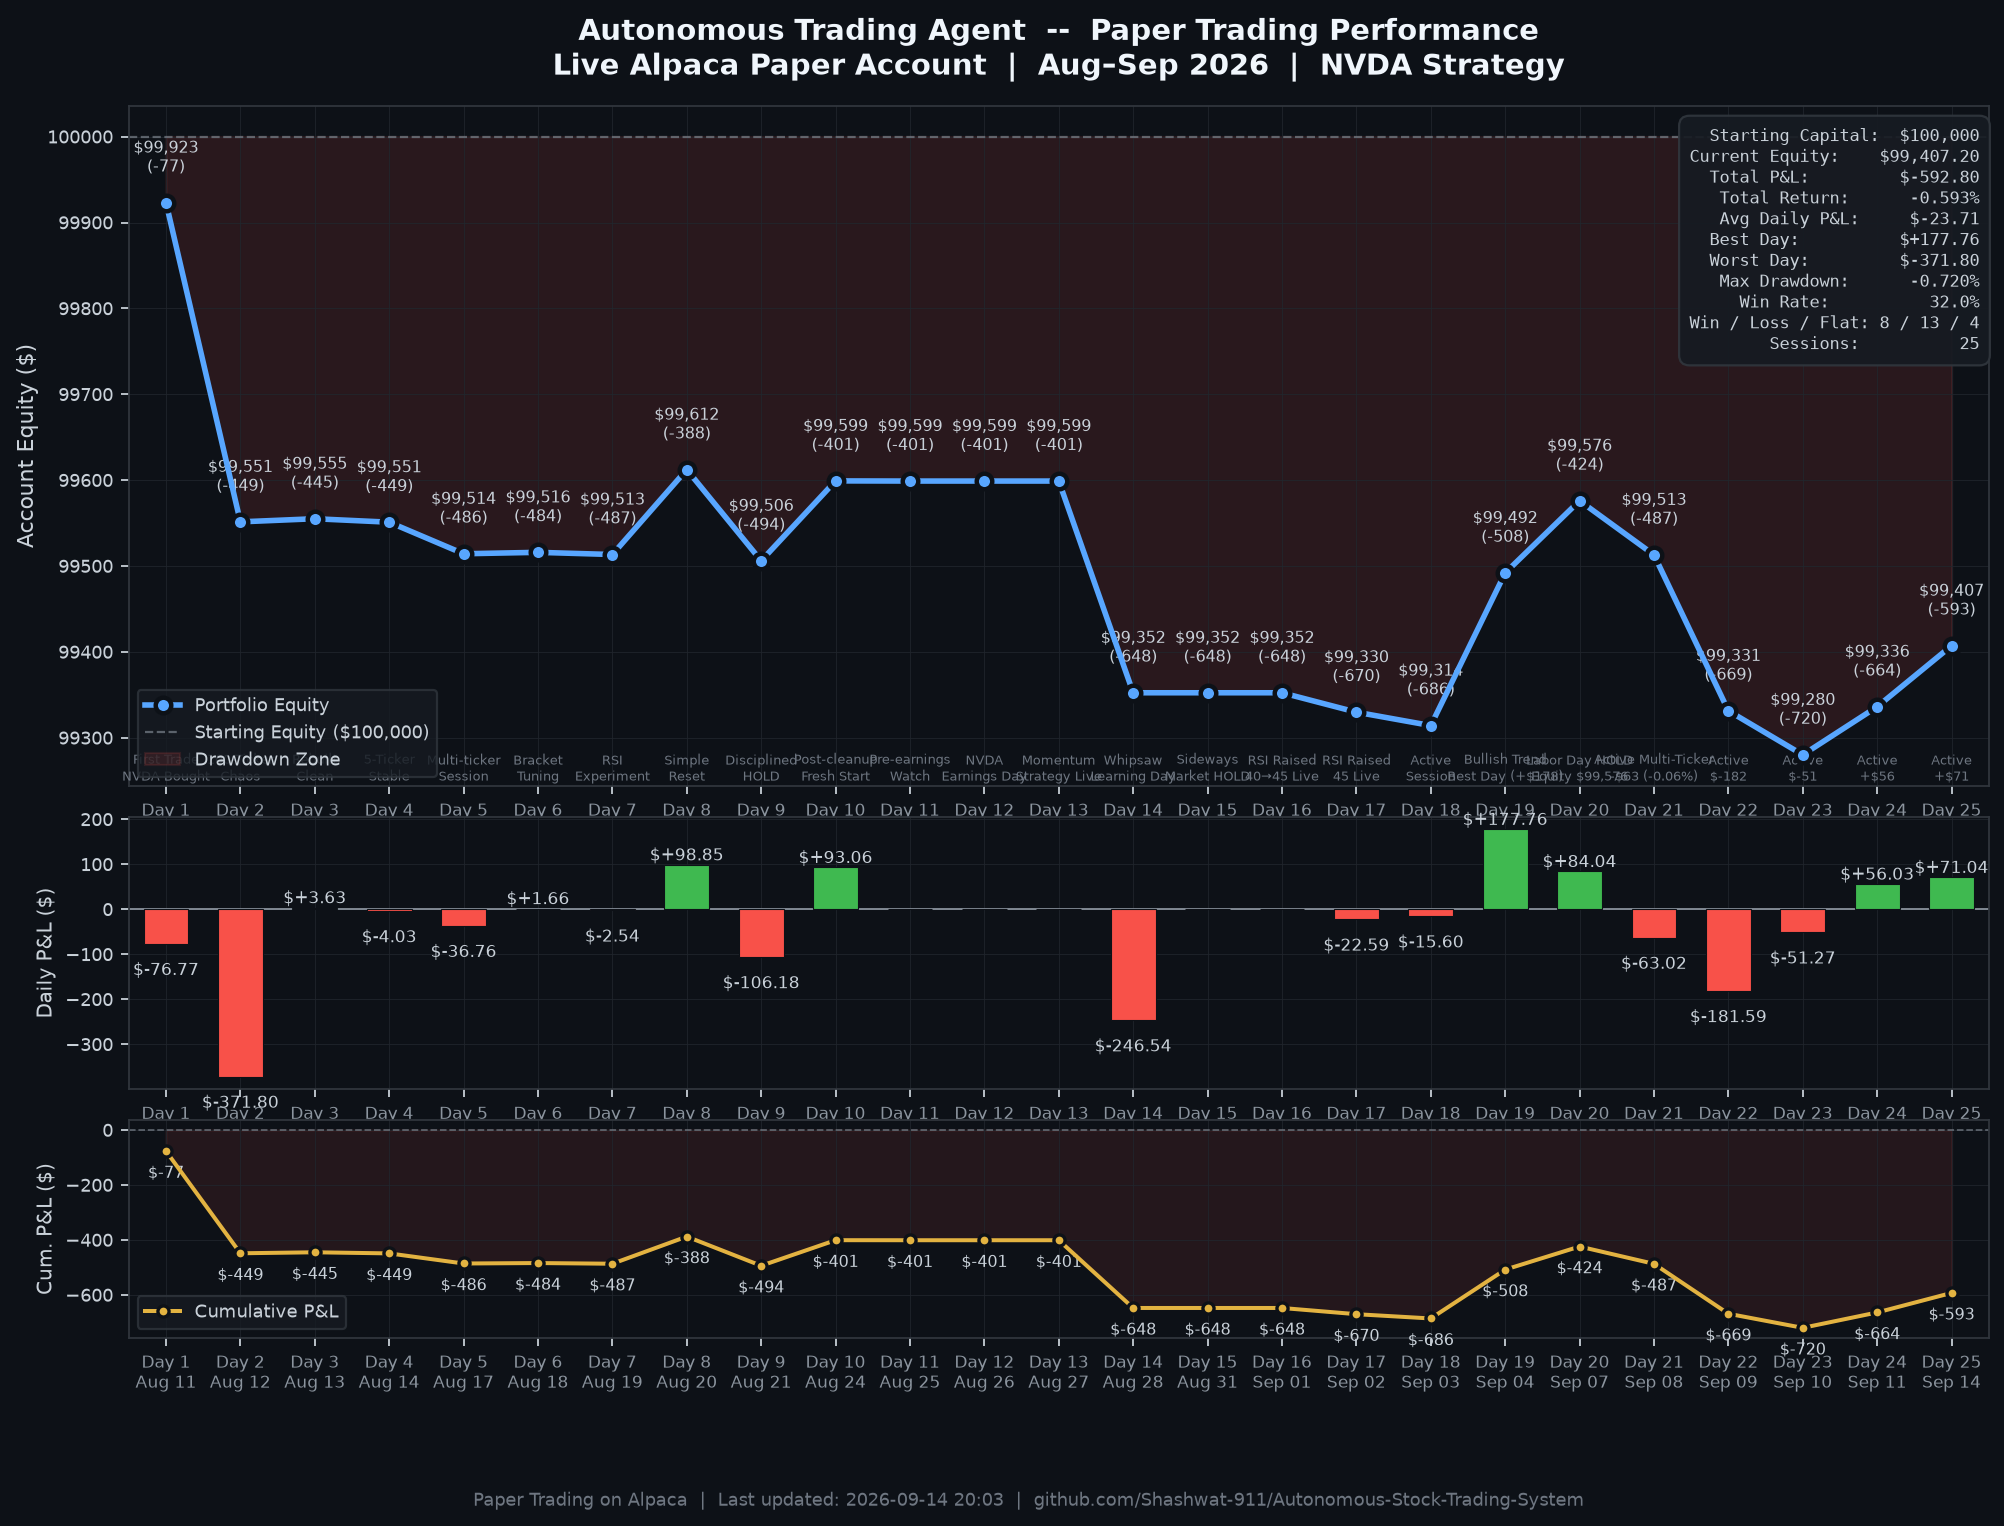
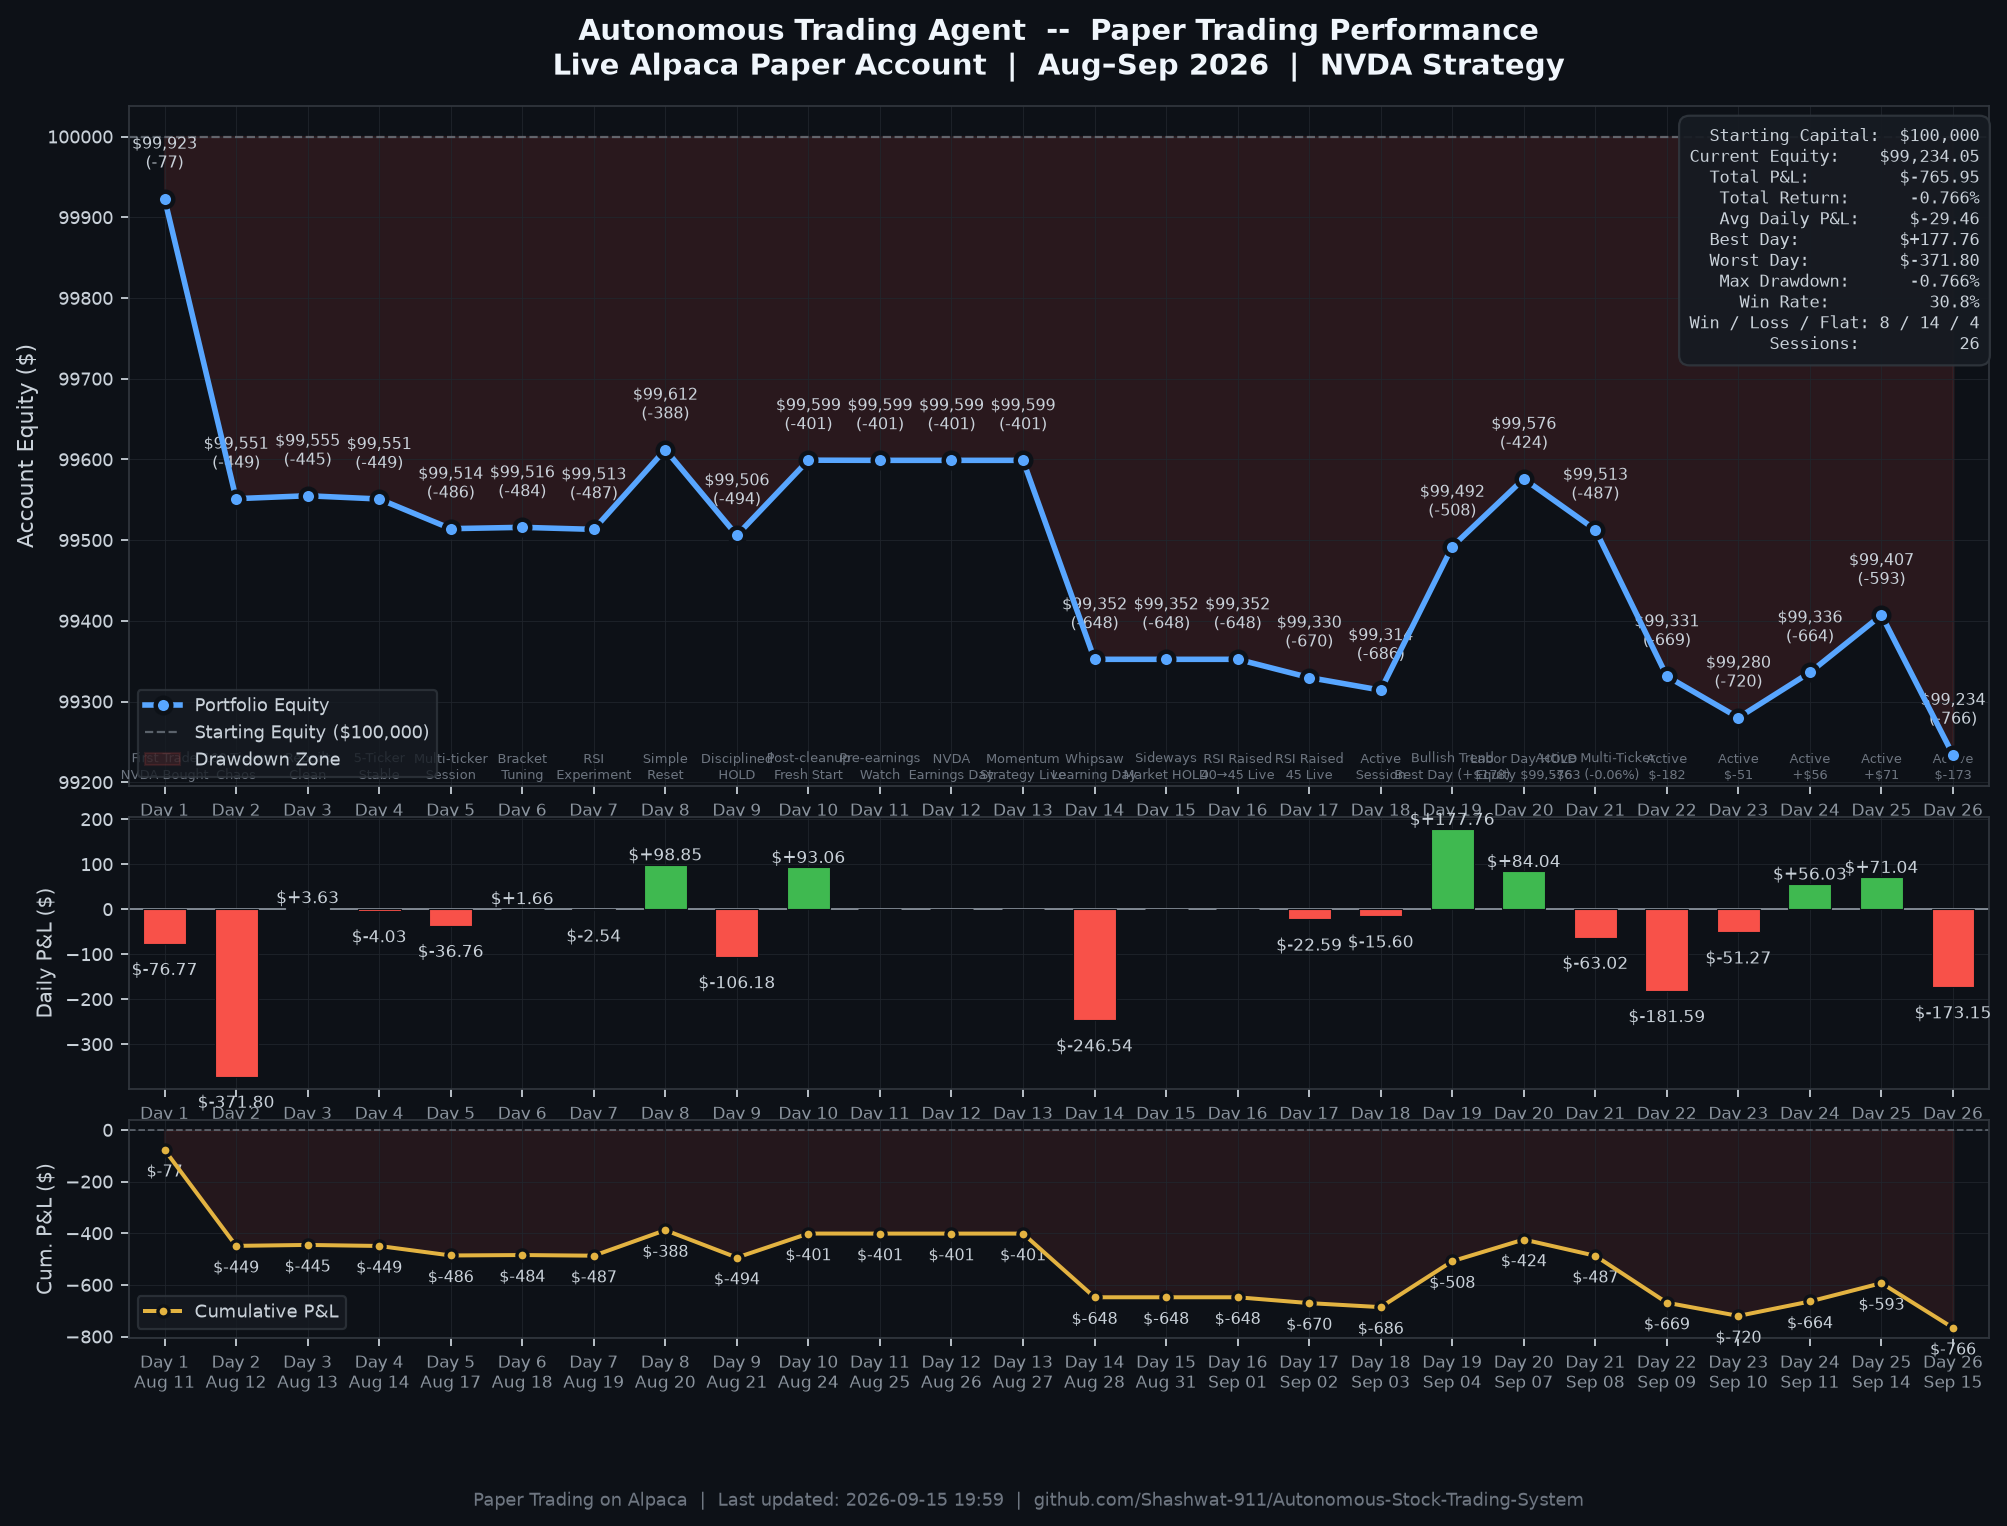
auto(session): 2026-09-15 | equity=$99,234 | return=-0.766%

diff --git a/README.md b/README.md
@@ -46,7 +46,7 @@ The automated trading bot is deployed in the cloud on Render with continuous mon
 
 > **Paper Trading on Alpaca** | Started: Aug 11, 2026 | Initial Capital: $100,000.00 | Universe: NVDA, TSLA, META, MSFT, AAPL (5-Stock High-Momentum Universe)
 
-![Daily P&L Chart](outputs/daily_pnl_chart.png?v=20260914)
+![Daily P&L Chart](outputs/daily_pnl_chart.png?v=20260915)
 
 *Chart auto-generated from live Alpaca Portfolio History API and verified session telemetry via [`scripts/generate_pnl_chart.py`](scripts/generate_pnl_chart.py).*
 
@@ -79,8 +79,9 @@ The automated trading bot is deployed in the cloud on Render with continuous mon
 | **Day 23** | Sep 10 (Thu) | $99,280.13 | -$51.27 | -$719.87 | -0.720% | Active Session (-$51.27) |
 | **Day 24** | Sep 11 (Fri) | $99,336.16 | **+$56.03** | -$663.84 | -0.664% | Profitable Session (+$56.03) |
 | **Day 25** | Sep 14 (Mon) | $99,407.20 | **+$71.04** | -$592.80 | -0.593% | Profitable Session (+$71.04) |
+| **Day 26** | Sep 15 (Tue) | $99,234.05 | -$173.15 | -$765.95 | -0.766% | Loss Session (-$173.15) |
 
-> **Current Equity**: $99,407.20 | **Total P&L**: $-592.80 | **Best Day**: $+177.76 | **Win Rate**: 32.0% (8W / 13L / 4 Flat) | **Max Drawdown**: -0.720% | **Sessions**: 25
+> **Current Equity**: $99,234.05 | **Total P&L**: $-765.95 | **Best Day**: $+177.76 | **Win Rate**: 30.8% (8W / 14L / 4 Flat) | **Max Drawdown**: -0.766% | **Sessions**: 26
 ---
 
 ## System Architecture
